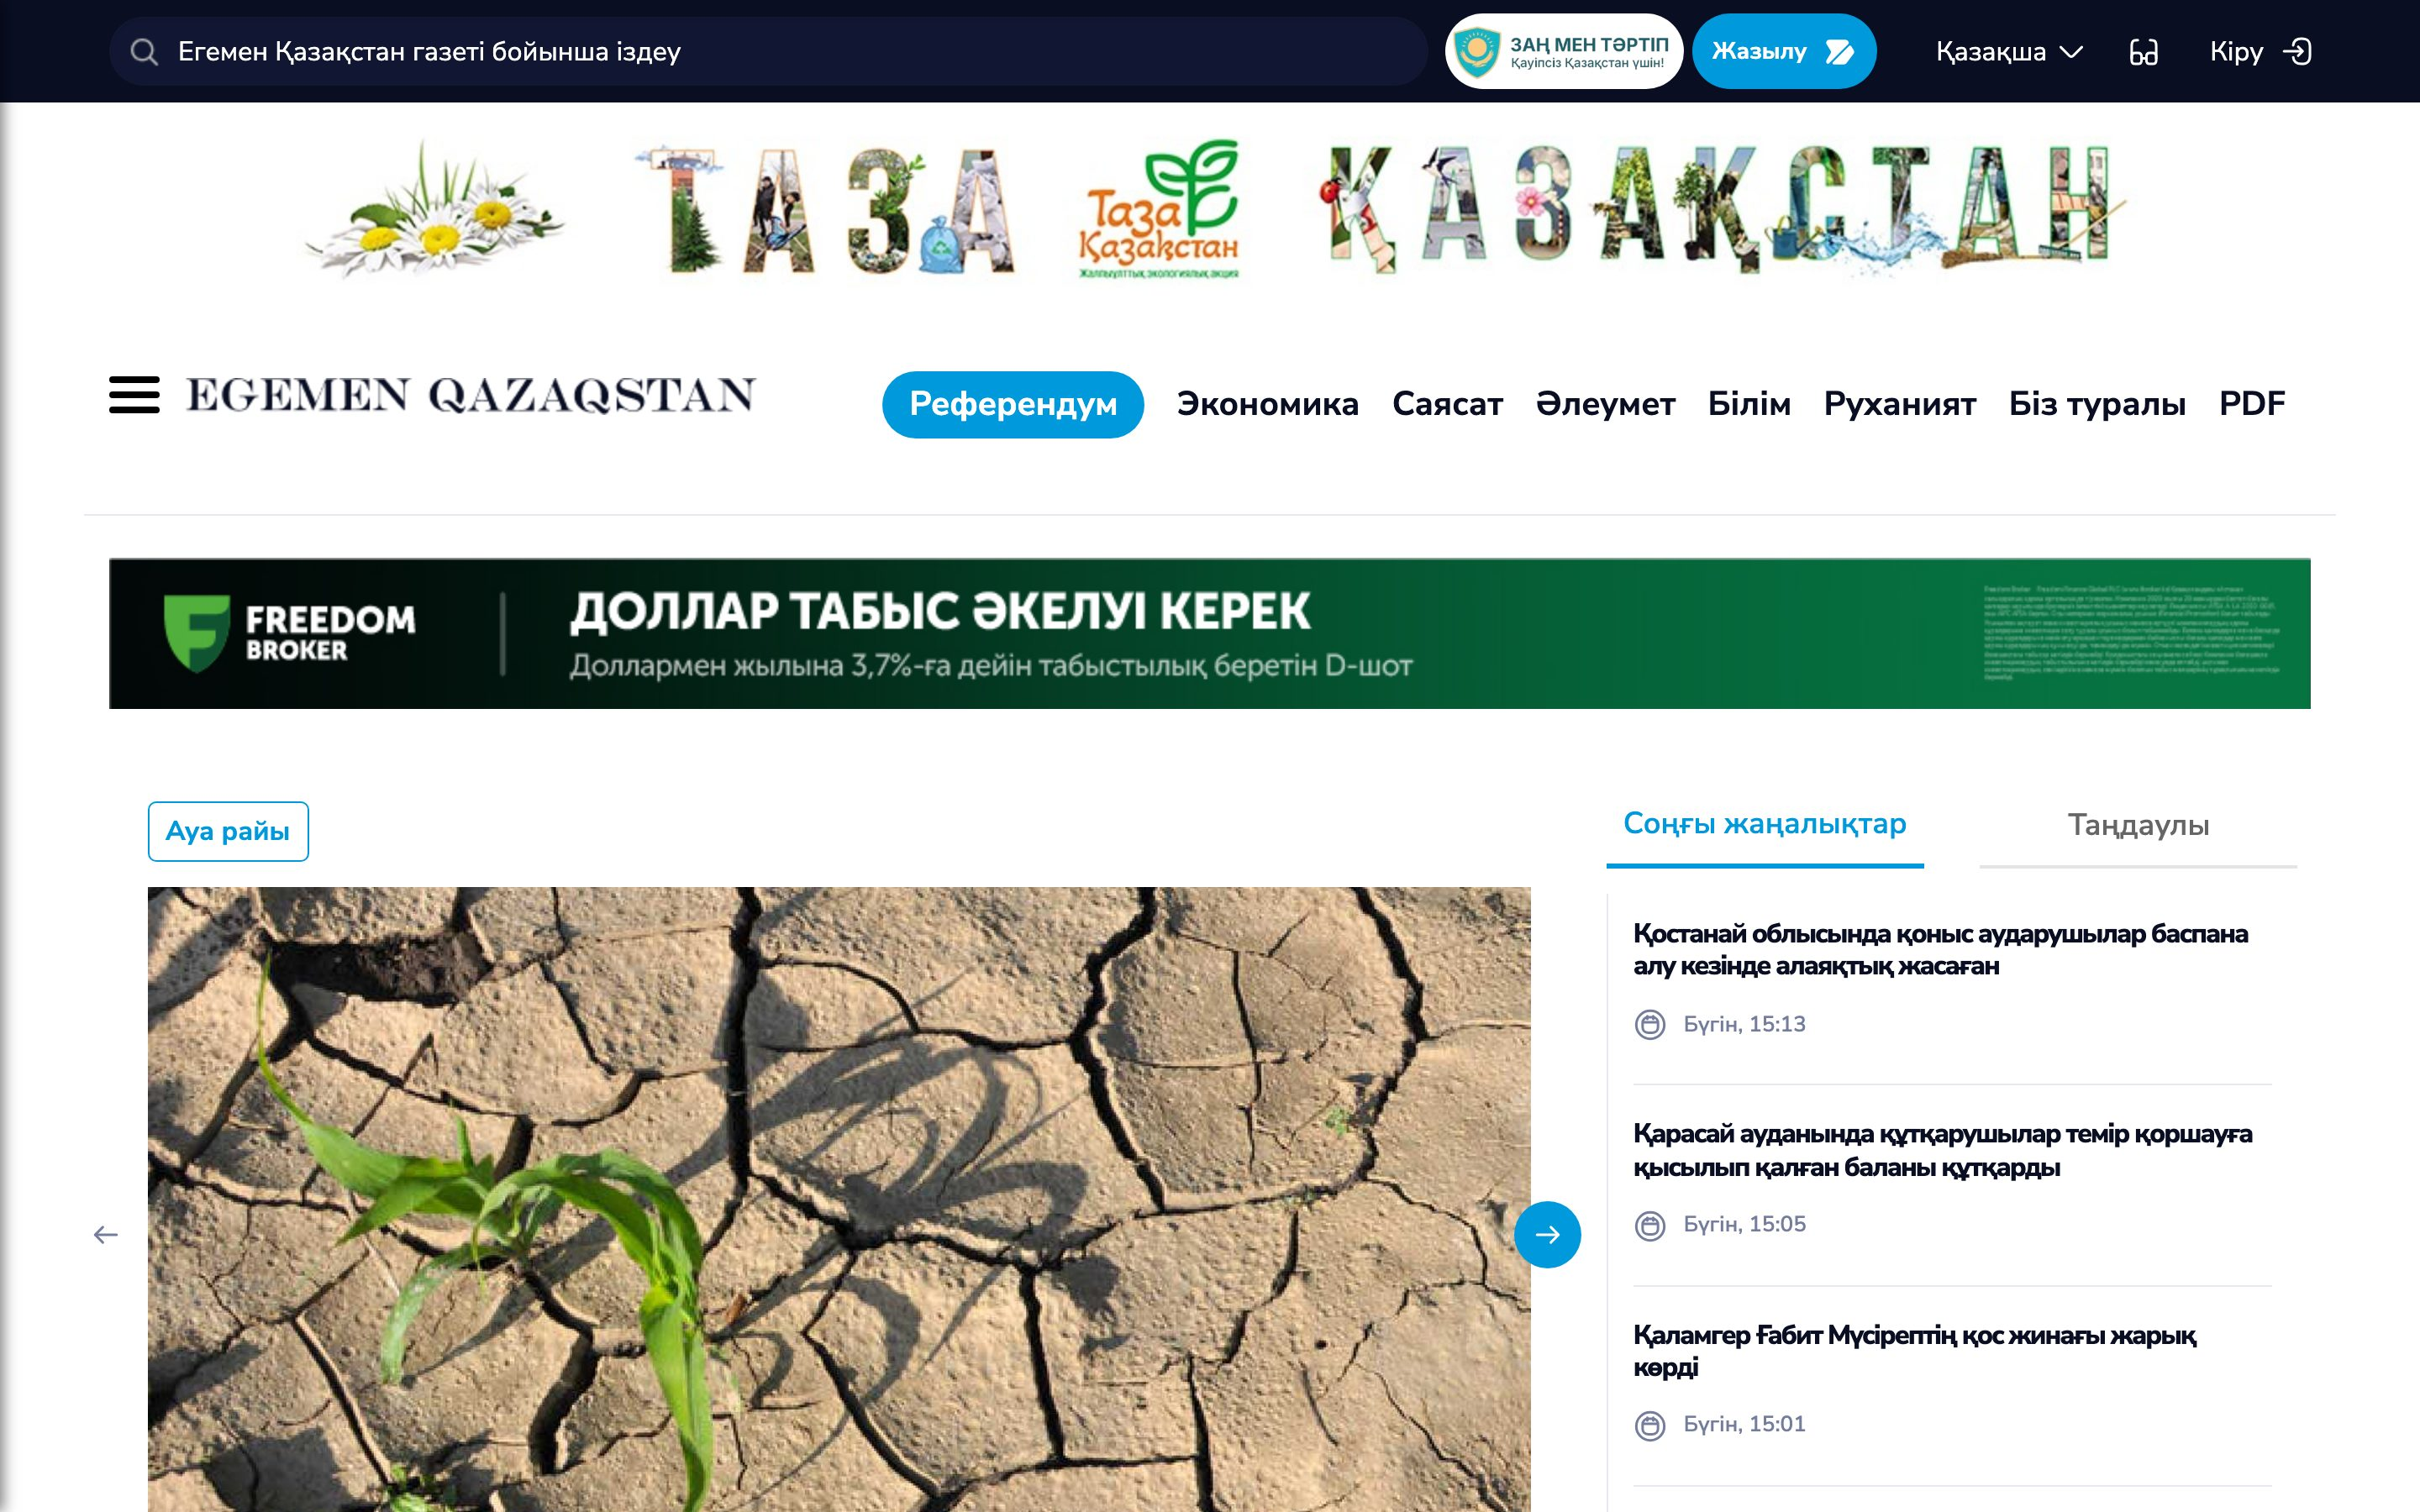
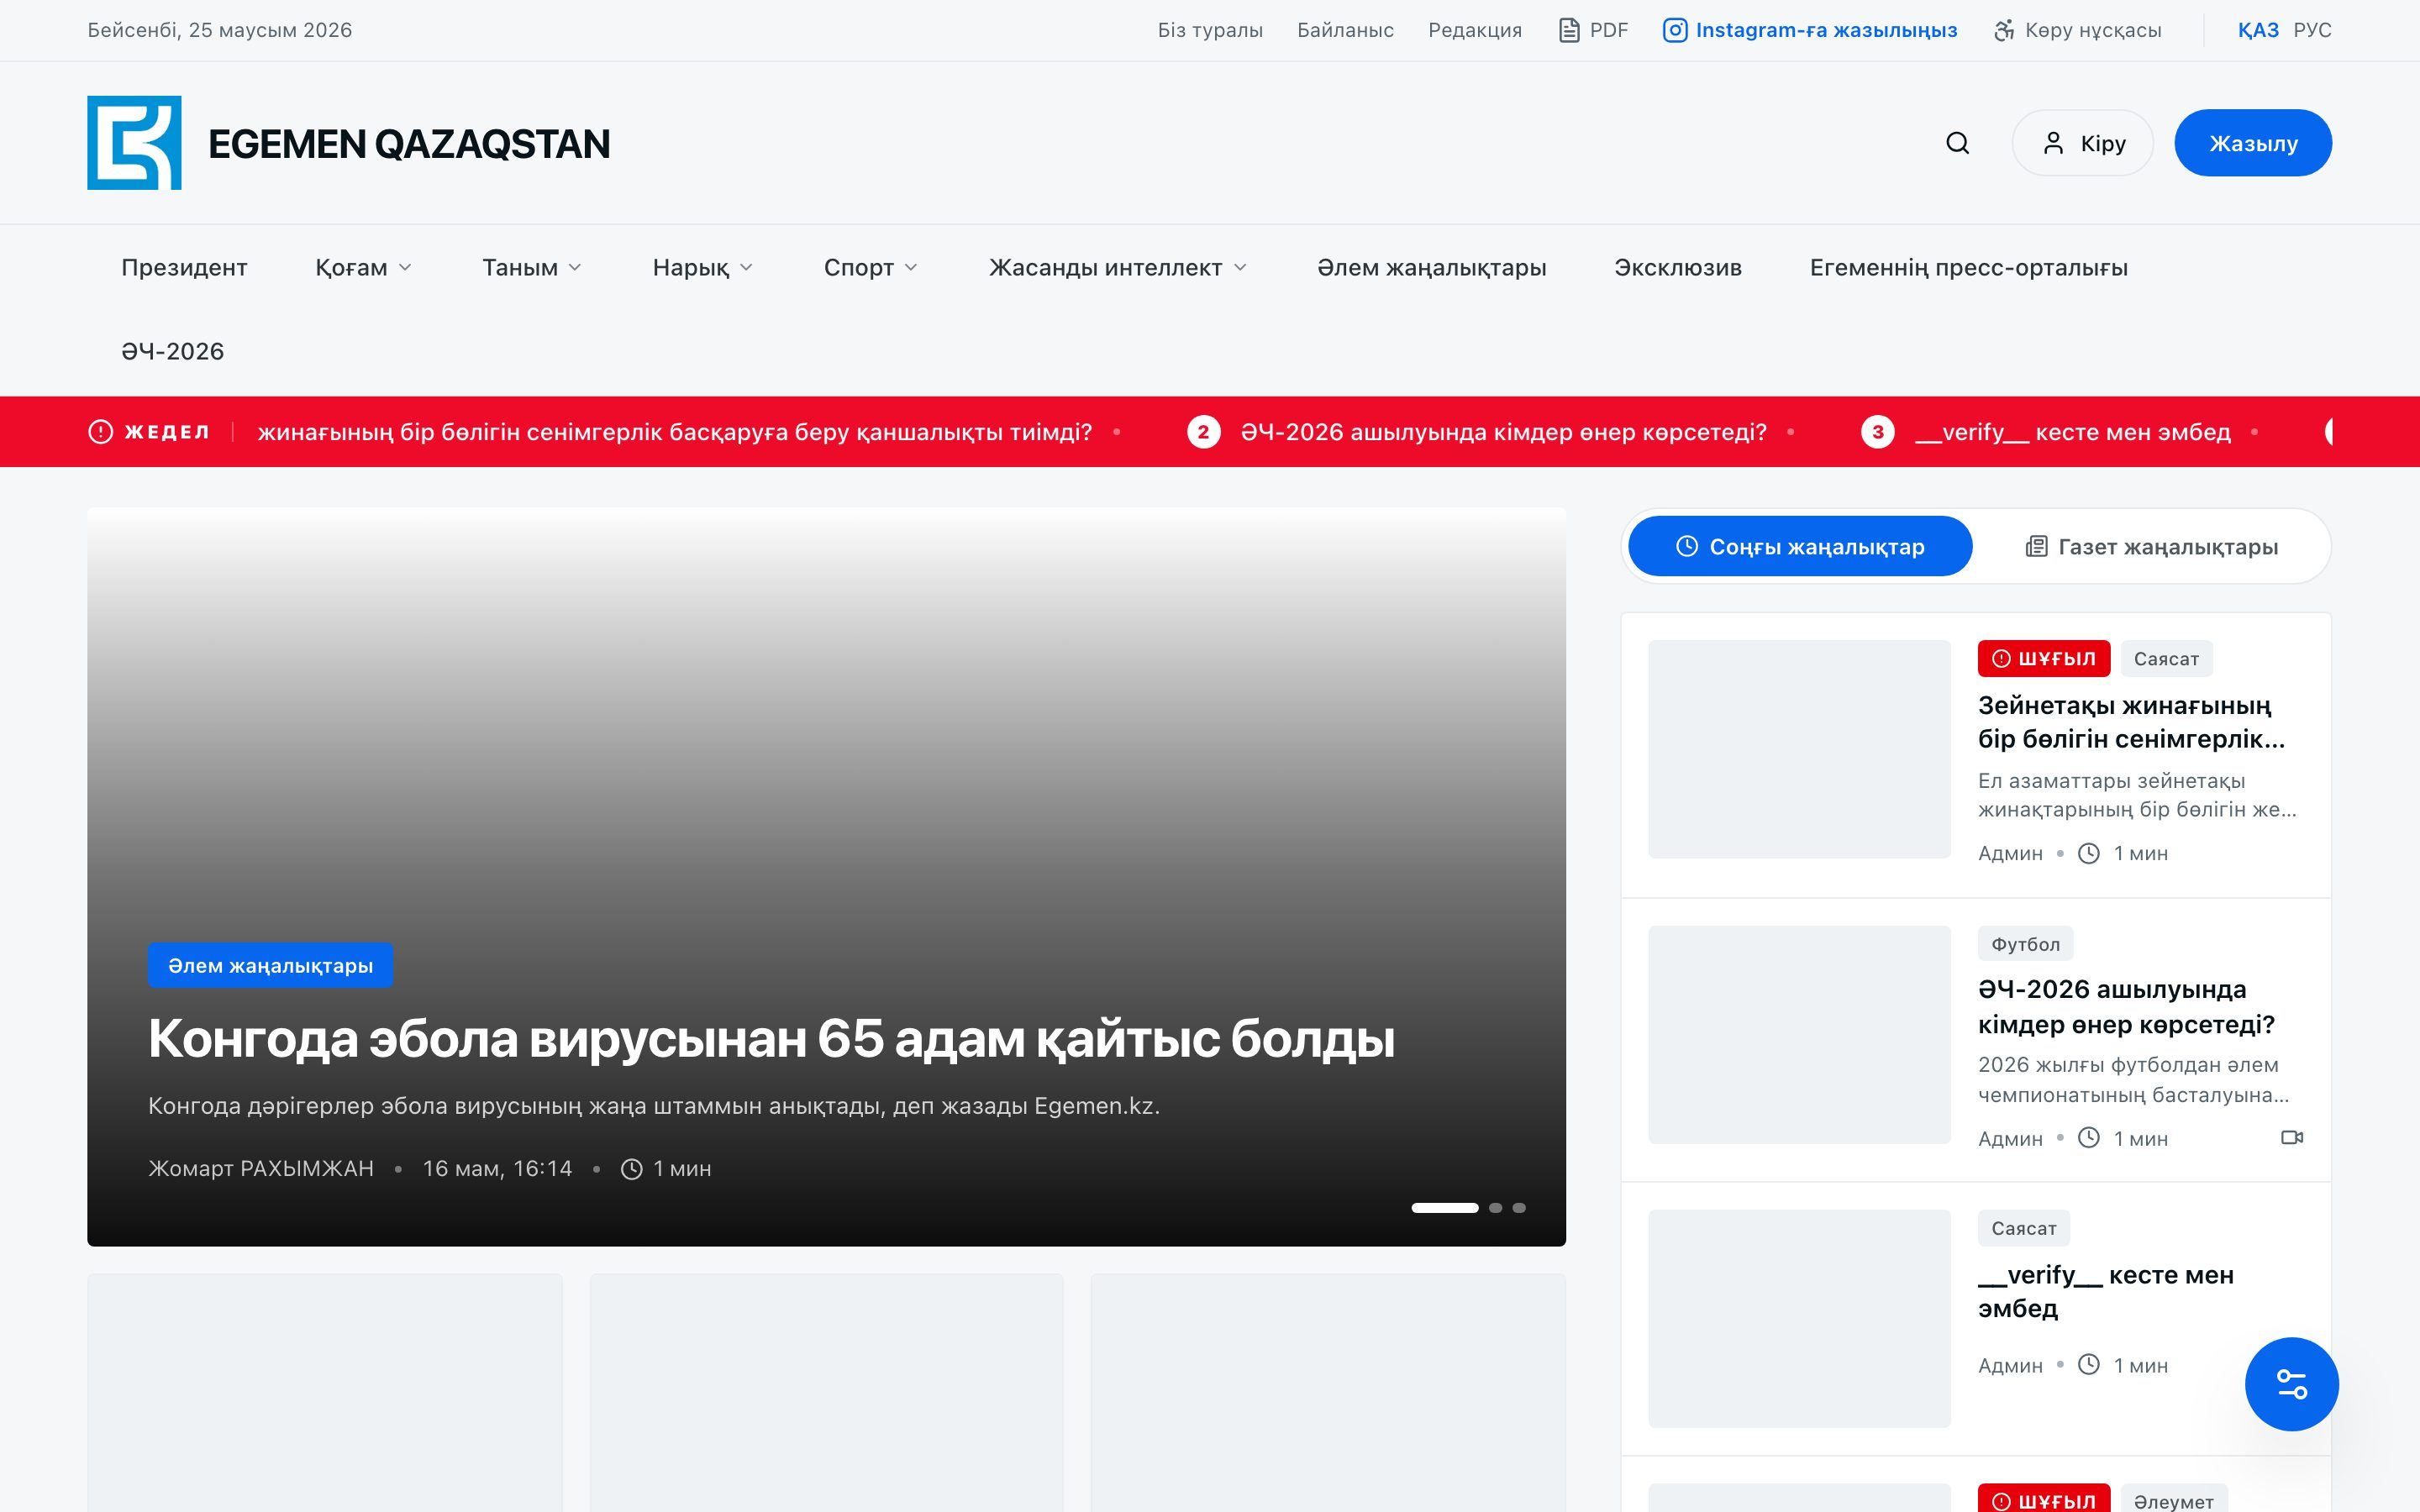
feat(cases): point newspapers to new-platform site + new-design screenshots
- egemen -> http://64.177.67.133:3000, kazpravda -> http://65.20.89.81:3000,
  kazgazeta -> http://45.77.41.77 (new platform staging)
- replace newspaper case images with screenshots of the new redesign

diff --git a/src/lib/portfolio-data.ts b/src/lib/portfolio-data.ts
@@ -205,7 +205,7 @@ export const PORTFOLIO_PROJECTS: readonly PortfolioProject[] = [
       "Миграция Egemen Qazaqstan с Laravel на Next.js/NestJS и PostgreSQL",
     image: "/cases/egemen.jpg",
     imageAlt: "Egemen Qazaqstan — новостная платформа",
-    url: "http://64.177.67.133:3002",
+    url: "http://64.177.67.133:3000",
     tags: [
       "Next.js",
       "NestJS",
@@ -257,7 +257,7 @@ export const PORTFOLIO_PROJECTS: readonly PortfolioProject[] = [
       "Перенос «Казахстанской правды» с Django на Next.js/NestJS с поиском и подписками",
     image: "/cases/kazpravda.jpg",
     imageAlt: "Kazakhstanskaya Pravda — новостной портал",
-    url: "http://65.20.89.81:3010",
+    url: "http://65.20.89.81:3000",
     tags: [
       "Next.js",
       "NestJS",
@@ -309,7 +309,7 @@ export const PORTFOLIO_PROJECTS: readonly PortfolioProject[] = [
       "Платформа для 13 изданий холдинга Qazaq Gazetteri с мультидоменной маршрутизацией",
     image: "/cases/kazgazeta.jpg",
     imageAlt: "Qazaq Gazetteri — холдинг из 13 изданий",
-    url: "http://45.77.41.77:3002",
+    url: "http://45.77.41.77",
     tags: [
       "Next.js",
       "NestJS",